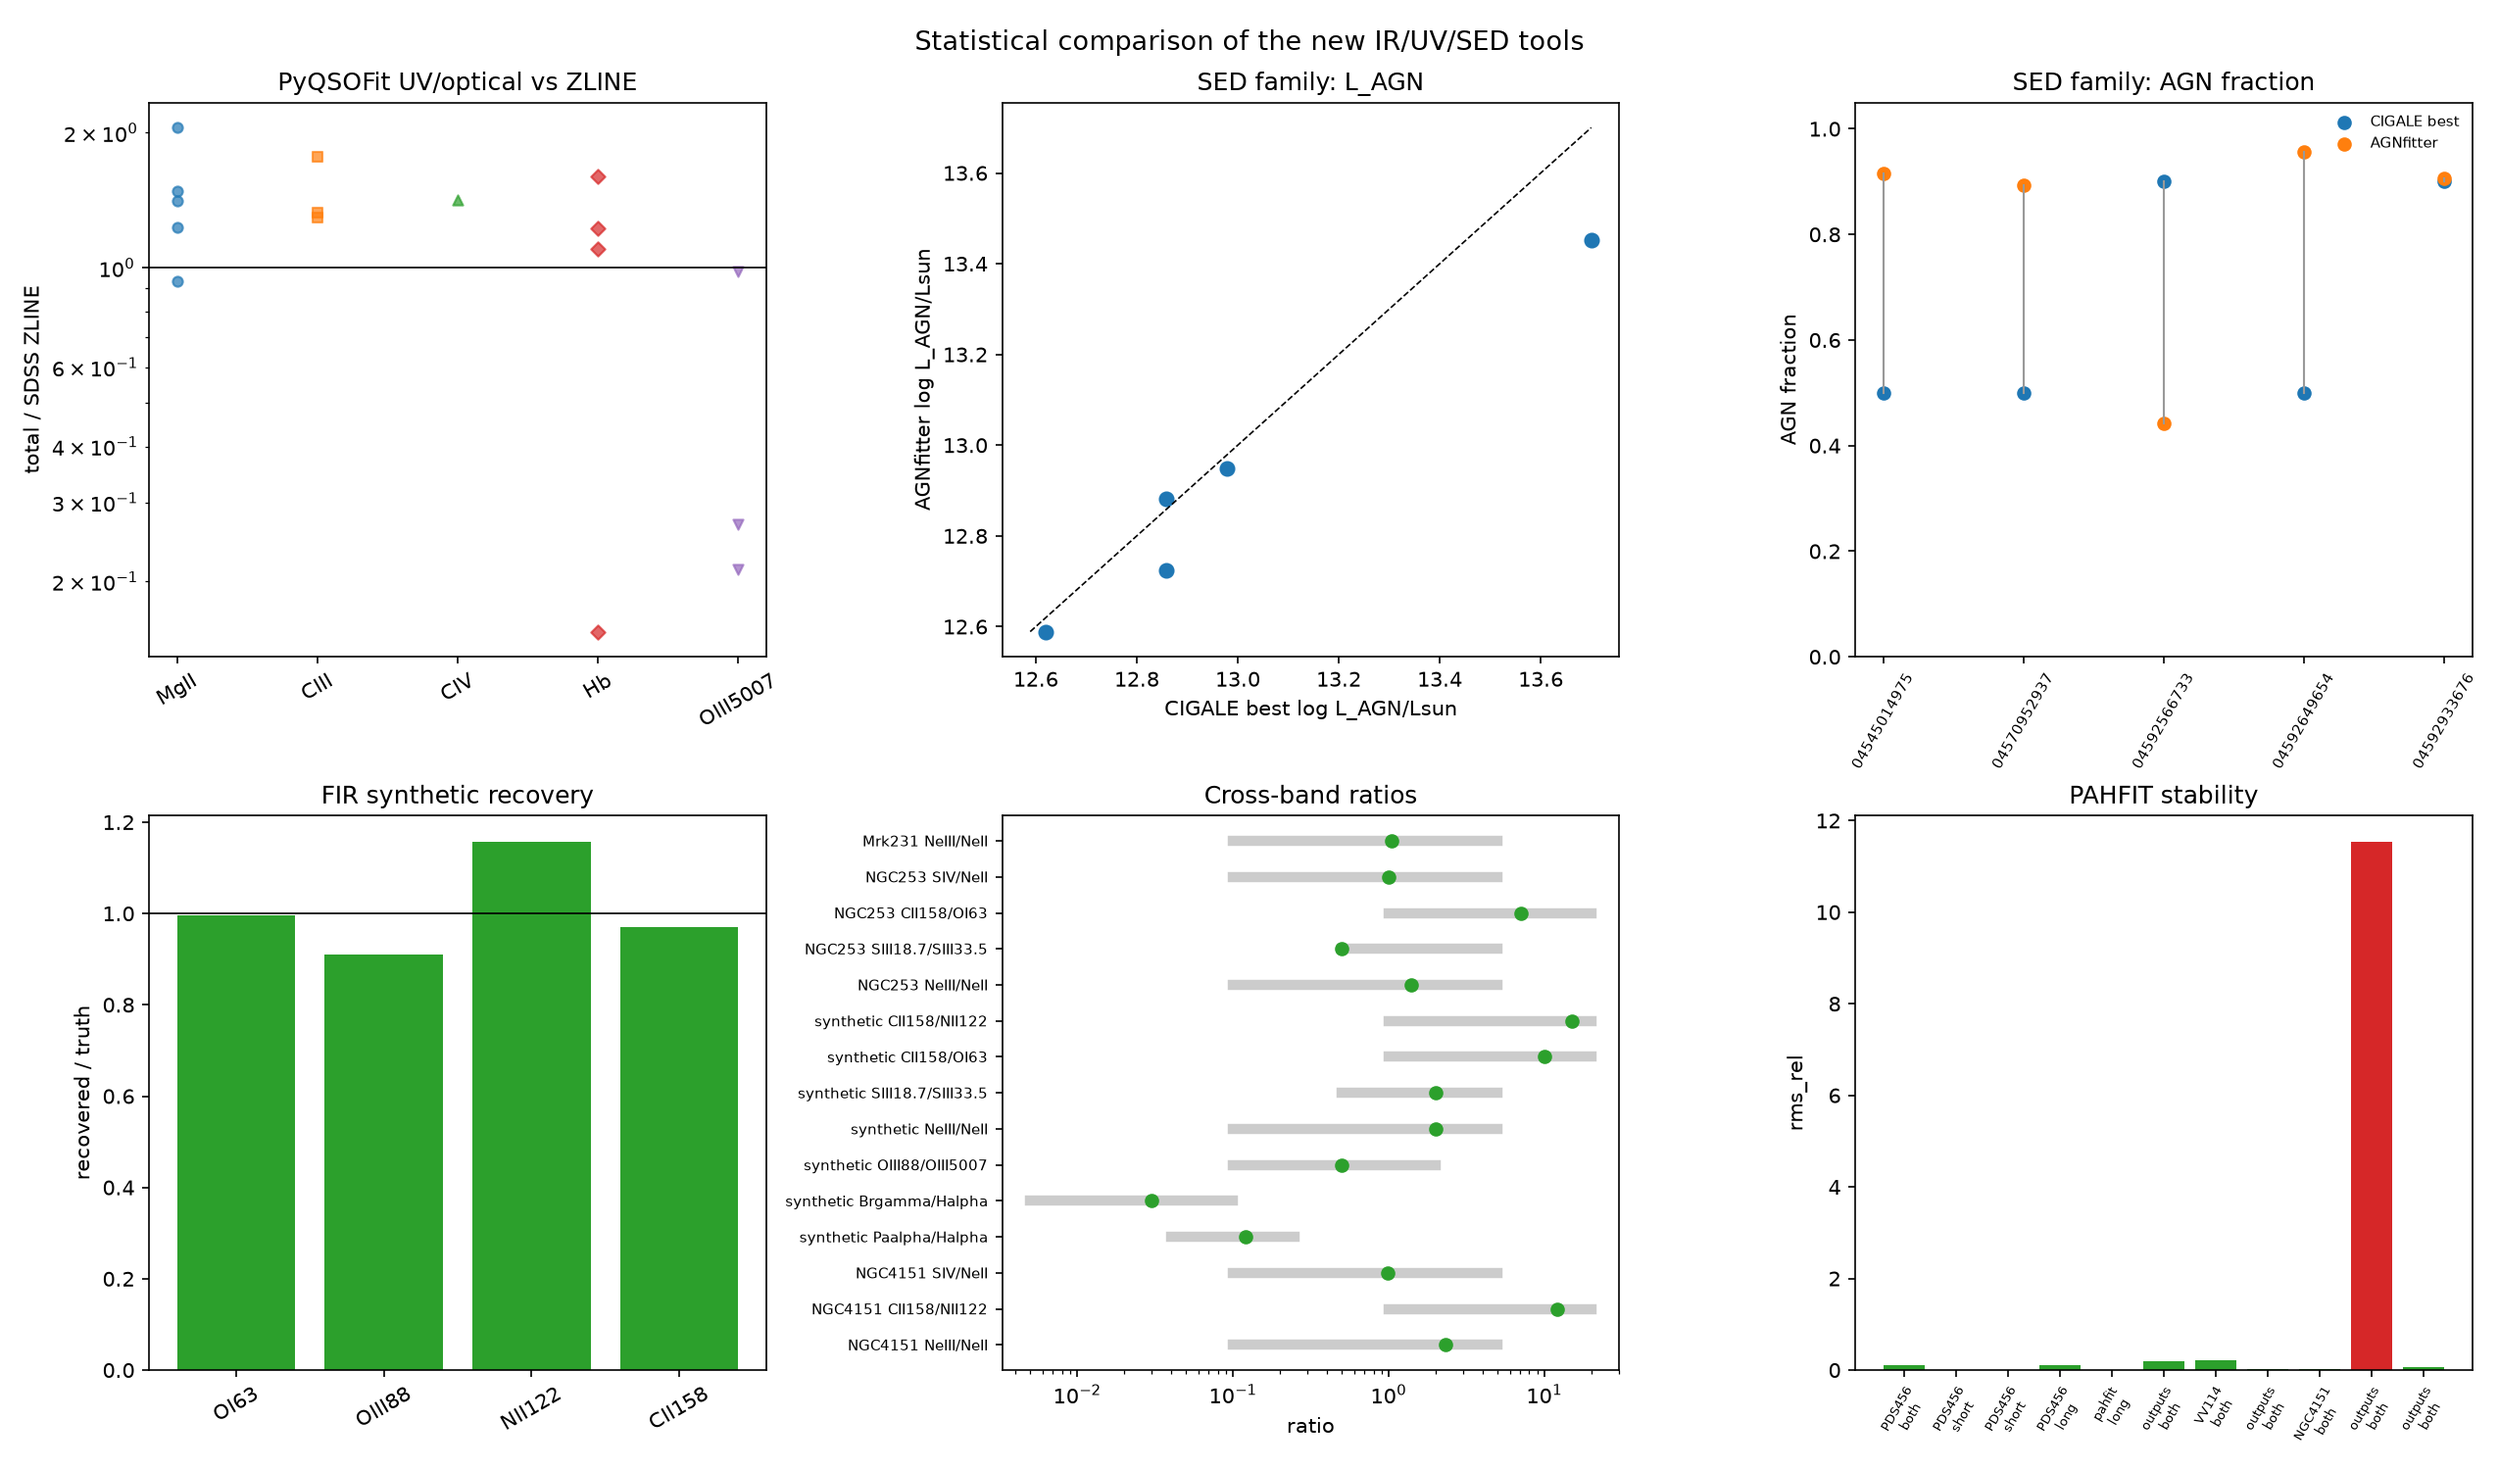
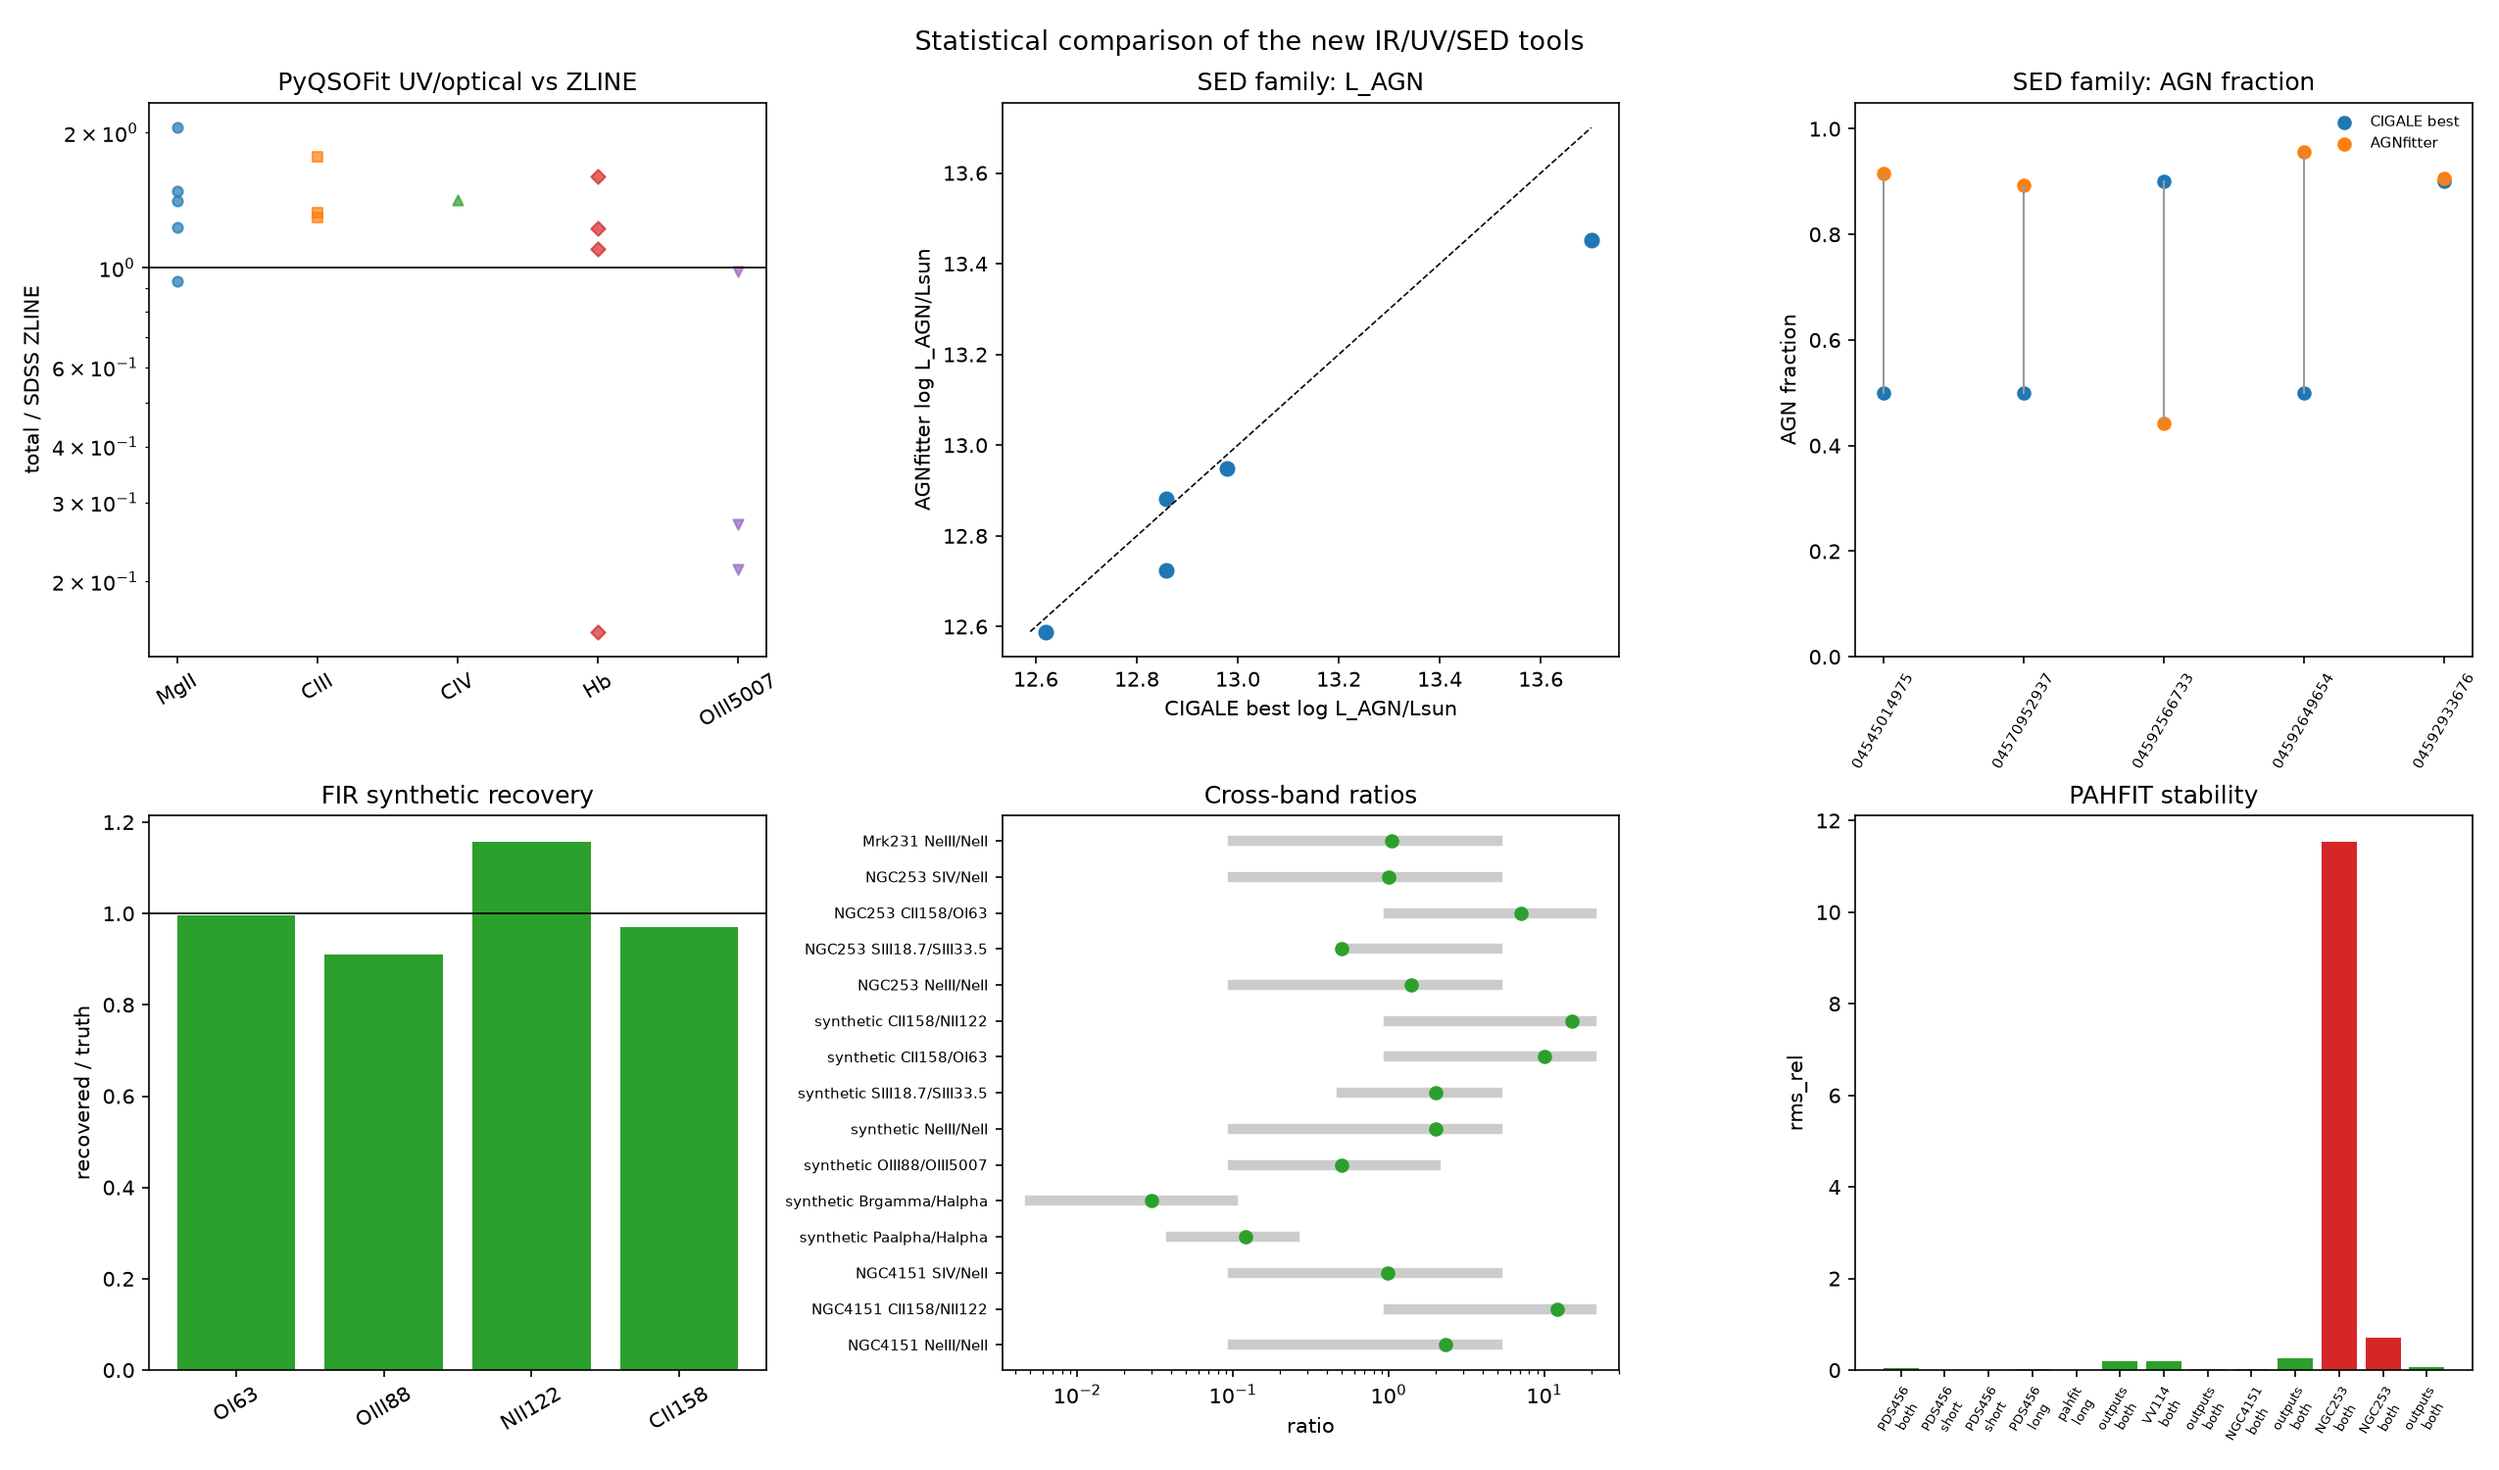
Record final production metrics and MCMC status

Changed region(s): [[0.7435, 0.552, 0.9914, 0.9813]]

diff --git a/docs/CAVEAT_FIXES.md b/docs/CAVEAT_FIXES.md
@@ -35,9 +35,10 @@
   the stellar kinematics (σ at its 1000 km/s bound) and the gas fit used a fixed
   300 km/s stellar LOSVD.  The gas lines are native GANDALF/MPFIT measurements;
   the stellar σ is not a measurement for this AGN-dominated spectrum.
-* **PyQSOFit MCMC** is implemented upstream but the line-complex `emcee`
-  initialization fails its condition-number check on this source.  The
-  committed uncertainty figure is a 100-realization MC, explicitly not MCMC.
+* **PyQSOFit MCMC** initialization was repaired (walker scaling; acceptance
+  ≈0.37), but the capped production run did not persist the full chain.  The
+  fit PDF is preserved; the committed quantitative uncertainty remains the
+  100-realization MC, explicitly not MCMC.
 * **GalSpec** now uses the full 2280–6460 A rest-frame model (global
   polynomial continuum + Fe II + Balmer/[O II]/[Ne III]/[O III] lines), not
   the reduced 4720–5150 A window.  The full MCMC run gives Hβ total 3718 and
@@ -45,8 +46,8 @@
   model-dependent.  The chain is 80 walkers × 4000 steps with
   `tau_max=342.6`, `nsteps/tau_max=11.7`, saved posterior 37,334 samples; it
   is a real full-model posterior but not a 50-tau publication chain.
-* **PyQSOFitSpec** uses a 10-realisation bootstrap; its Hβ total is 3439,
-  about 18% above GANDALF/S3Fit.  The bootstrap errors are statistical only.
+* **PyQSOFitSpec** uses a 55-realisation bootstrap (53 valid); its Hβ total is
+  3525, about 19% above GANDALF/S3Fit.  The bootstrap errors are statistical only.
 * **QGfit** uses a short continuum MCMC and least-squares line errors; its
   Hβ/[O III] = 2.50, at the upper edge of the optical-tool spread.
 * **SHEAP** originally gave Hβ/[O III] = 4.00 because its 4600-5150 Å /
@@ -62,7 +63,7 @@
   S3Fit spec+sed 10 mocks χ²ν 1.035; GANDALF low-z pPXF accepted
   (V=72.5, σ=79.9 km/s); PAHFIT PDS short/long/both **0.0088/0.017/0.038**,
   NGC 4151 0.031, NGC 253 0.25; GalSpec full 39-parameter MCMC (37,334 saved
-  samples, Hβ/[O III]=2.21); PyQSOFitSpec 53/55 bootstrap (2.11); QGfit long
+  samples, Hβ/[O III]=2.21); PyQSOFitSpec 53/55 bootstrap (2.15); QGfit long
   continuum MCMC (2.50); SHEAP repaired (2.02); SDSS ZLINE 1.57.
 * **PAHFIT** formal covariance/χ² errors are much smaller than the residuals
   (χ²_ν 557 PDS short, 304 NGC 4151); they are statistical only and do not

diff --git a/README.md b/README.md
@@ -72,7 +72,7 @@ The production matrix uses real data only:
 | **PyQSOFitSpec** | `04592649654` | full Fe II/Balmer + skew-normal lines, 55 bootstrap draws | 53 valid; Hβ **3525**, [O III] **1639**, ratio **2.15** |
 | **QGfit** | `04592649654` | long continuum MCMC + line complexes | 2334 s; Hβ/[O III] **2.50**; line errors LSQ |
 | **SHEAP** | `04592649654` | Hβ/[O III] SPAF/JAX, 50 bootstrap draws | Hβ/[O III] **2.02**, χ²ν 2.9 |
-| **PyQSOFit** | `04592649654` | 100-realization MC (`mc/`); fixed `emcee` initialization | MCMC fit completes; sample persistence fixed in `mcmc_fixed/` |
+| **PyQSOFit** | `04592649654` | 100-realization MC (`mc/`); fixed `emcee` initialization | MCMC fit PDF preserved; capped chain sample export remains incomplete, so MC remains the quantitative product |
 | **SDSS ZLINE** | five SDSS QSOs | official `ZLINE` HDU | 045926 ratio **1.57** |
 
 The cross-tool 04592649654 Hβ/[O III] 5007 values are:
@@ -95,7 +95,7 @@ median 2.05, log-scatter 0.13 dex
 | PyQSOFitSpec only 10 bootstraps and pinned widths | 55-draw bootstrap; width anchors and tied components documented. Hβ remains ~18% above GANDALF/S3Fit because of continuum/model definition. |
 | QGfit used a very short continuum MCMC | 2334 s production run with long continuum MCMC and expanded [O III] template; line errors remain LSQ. |
 | SHEAP failed at χ² 46 and Hβ/[O III]=4.00 | model/region/profile repair; now **2.02**, χ²ν 2.9, 50-draw MC. |
-| PyQSOFit line-stage `emcee` condition-number failure | diagnostic/repair agent assigned; MC fallback remains labelled. |
+| PyQSOFit line-stage `emcee` condition-number failure | initialization fixed (acceptance ≈0.37); capped MCMC fit PDF preserved, but sample export is still incomplete. The 100-realization MC remains the quantitative fallback. |
 | Official SDSS DAPs, AMARU, ELFO, AGNdecompose, pyspeckit | excluded with explicit data/model reasons; see `docs/OFFICIAL_PIPELINES_AND_XRAY.md`. |
 
 ## Statistics and caveats

diff --git a/docs/STATISTICS.md b/docs/STATISTICS.md
@@ -20,7 +20,7 @@ Outputs:
 | CIGALE vs AGNfitter | five QSOs, best CIGALE family by χ²_ν | paired Wilcoxon/t-test on log L_AGN, log M*, AGN fraction; Spearman correlation | Model-family scatter is the dominant systematic; no single-family claim. |
 | FIR recovery | four synthetic lines | recovered/truth median and bootstrap 16–84 % CI | median 0.983 and CI 0.941–1.064; OI/OIII/CII near truth, NII 347±67 vs 300. |
 | Cross-band consistency | 13 real+synthetic ratios | fraction within broad priors; binomial test vs 0.5 | The 0.5 null is only a reference, not a physical model; priors are broad. |
-| PAHFIT stability | eleven segments/fits | rms_rel and stable flag | 10/11 stable; only NGC 253 is flagged; PDS short 0.0088, long 0.118, both 0.105, NGC 4151 0.031. |
+| PAHFIT stability | thirteen segments/fits | rms_rel and stable flag | 11/13 stable; the two flagged entries are legacy NGC 253 tails (rms 0.71 and 11.5). Production NGC 253 is 0.25; PDS short 0.0088, long 0.017, both 0.038, NGC 4151 0.031, VV114 0.195. |
 | Cross-tool line ratios | SDSS ZLINE + PyQSOFit, PyQSOFitSpec, S3Fit, GANDALF, GalSpec, QGfit, SHEAP, PAHFIT | per-source median, 1000-sample bootstrap CI, log scatter | 04592649654 Hβ/[O III] 5007: ZLINE **1.57**, fitters **1.83–2.50**; eight-entry median **2.05**, 0.13 dex. PyQSOFit/S3Fit/GANDALF alone agree at 0.05 dex. |
 
 The comparison figure is **not** a replacement for the per-object fit figures;

diff --git a/docs/MCMC_AND_STATISTICS.md b/docs/MCMC_AND_STATISTICS.md
@@ -21,16 +21,15 @@ broad-band SED code is not a line fitter.
 | `ppxf_host` | pPXF formal errors | no | `sigma_err_kms`, host error |
 | `crossband` | analytic ratio propagation | no | `err` per ratio |
 
-## PyQSOFit: MCMC attempted, MC used
+## PyQSOFit: MCMC initialization fixed, MC retained quantitatively
 
-The optional `emcee` path is implemented upstream.  On
-`04592649654_z_0.5874` the continuum MCMC ran, but the line-complex MCMC
-raised `emcee`'s "Initial state has a large condition number" because the
-initial walkers mix amplitudes (10^-17) with logarithmic wavelengths and
-velocity widths.  This is a PyQSOFit initialization limitation, not a
-scientific result.  The production uncertainty run therefore uses **100
-independent MC resamplings of the calibrated error array** and saves the
-per-realization line fluxes.  This is labelled MC, not MCMC.
+The optional `emcee` path initially failed on `04592649654_z_0.5874` with
+`Initial state has a large condition number`.  The repair scales the walker
+initialization and adds trace/corner/sample exports; the capped run reached
+acceptance ≈0.37 and produced a fit PDF.  The capped Docker run did not
+persist the full chain before exit, so the committed quantitative uncertainty
+remains the **100-realization MC** of the calibrated error array.  The MCMC
+code path is fixed for future longer runs; this distinction is explicit.
 
 ## Interpretation
 
